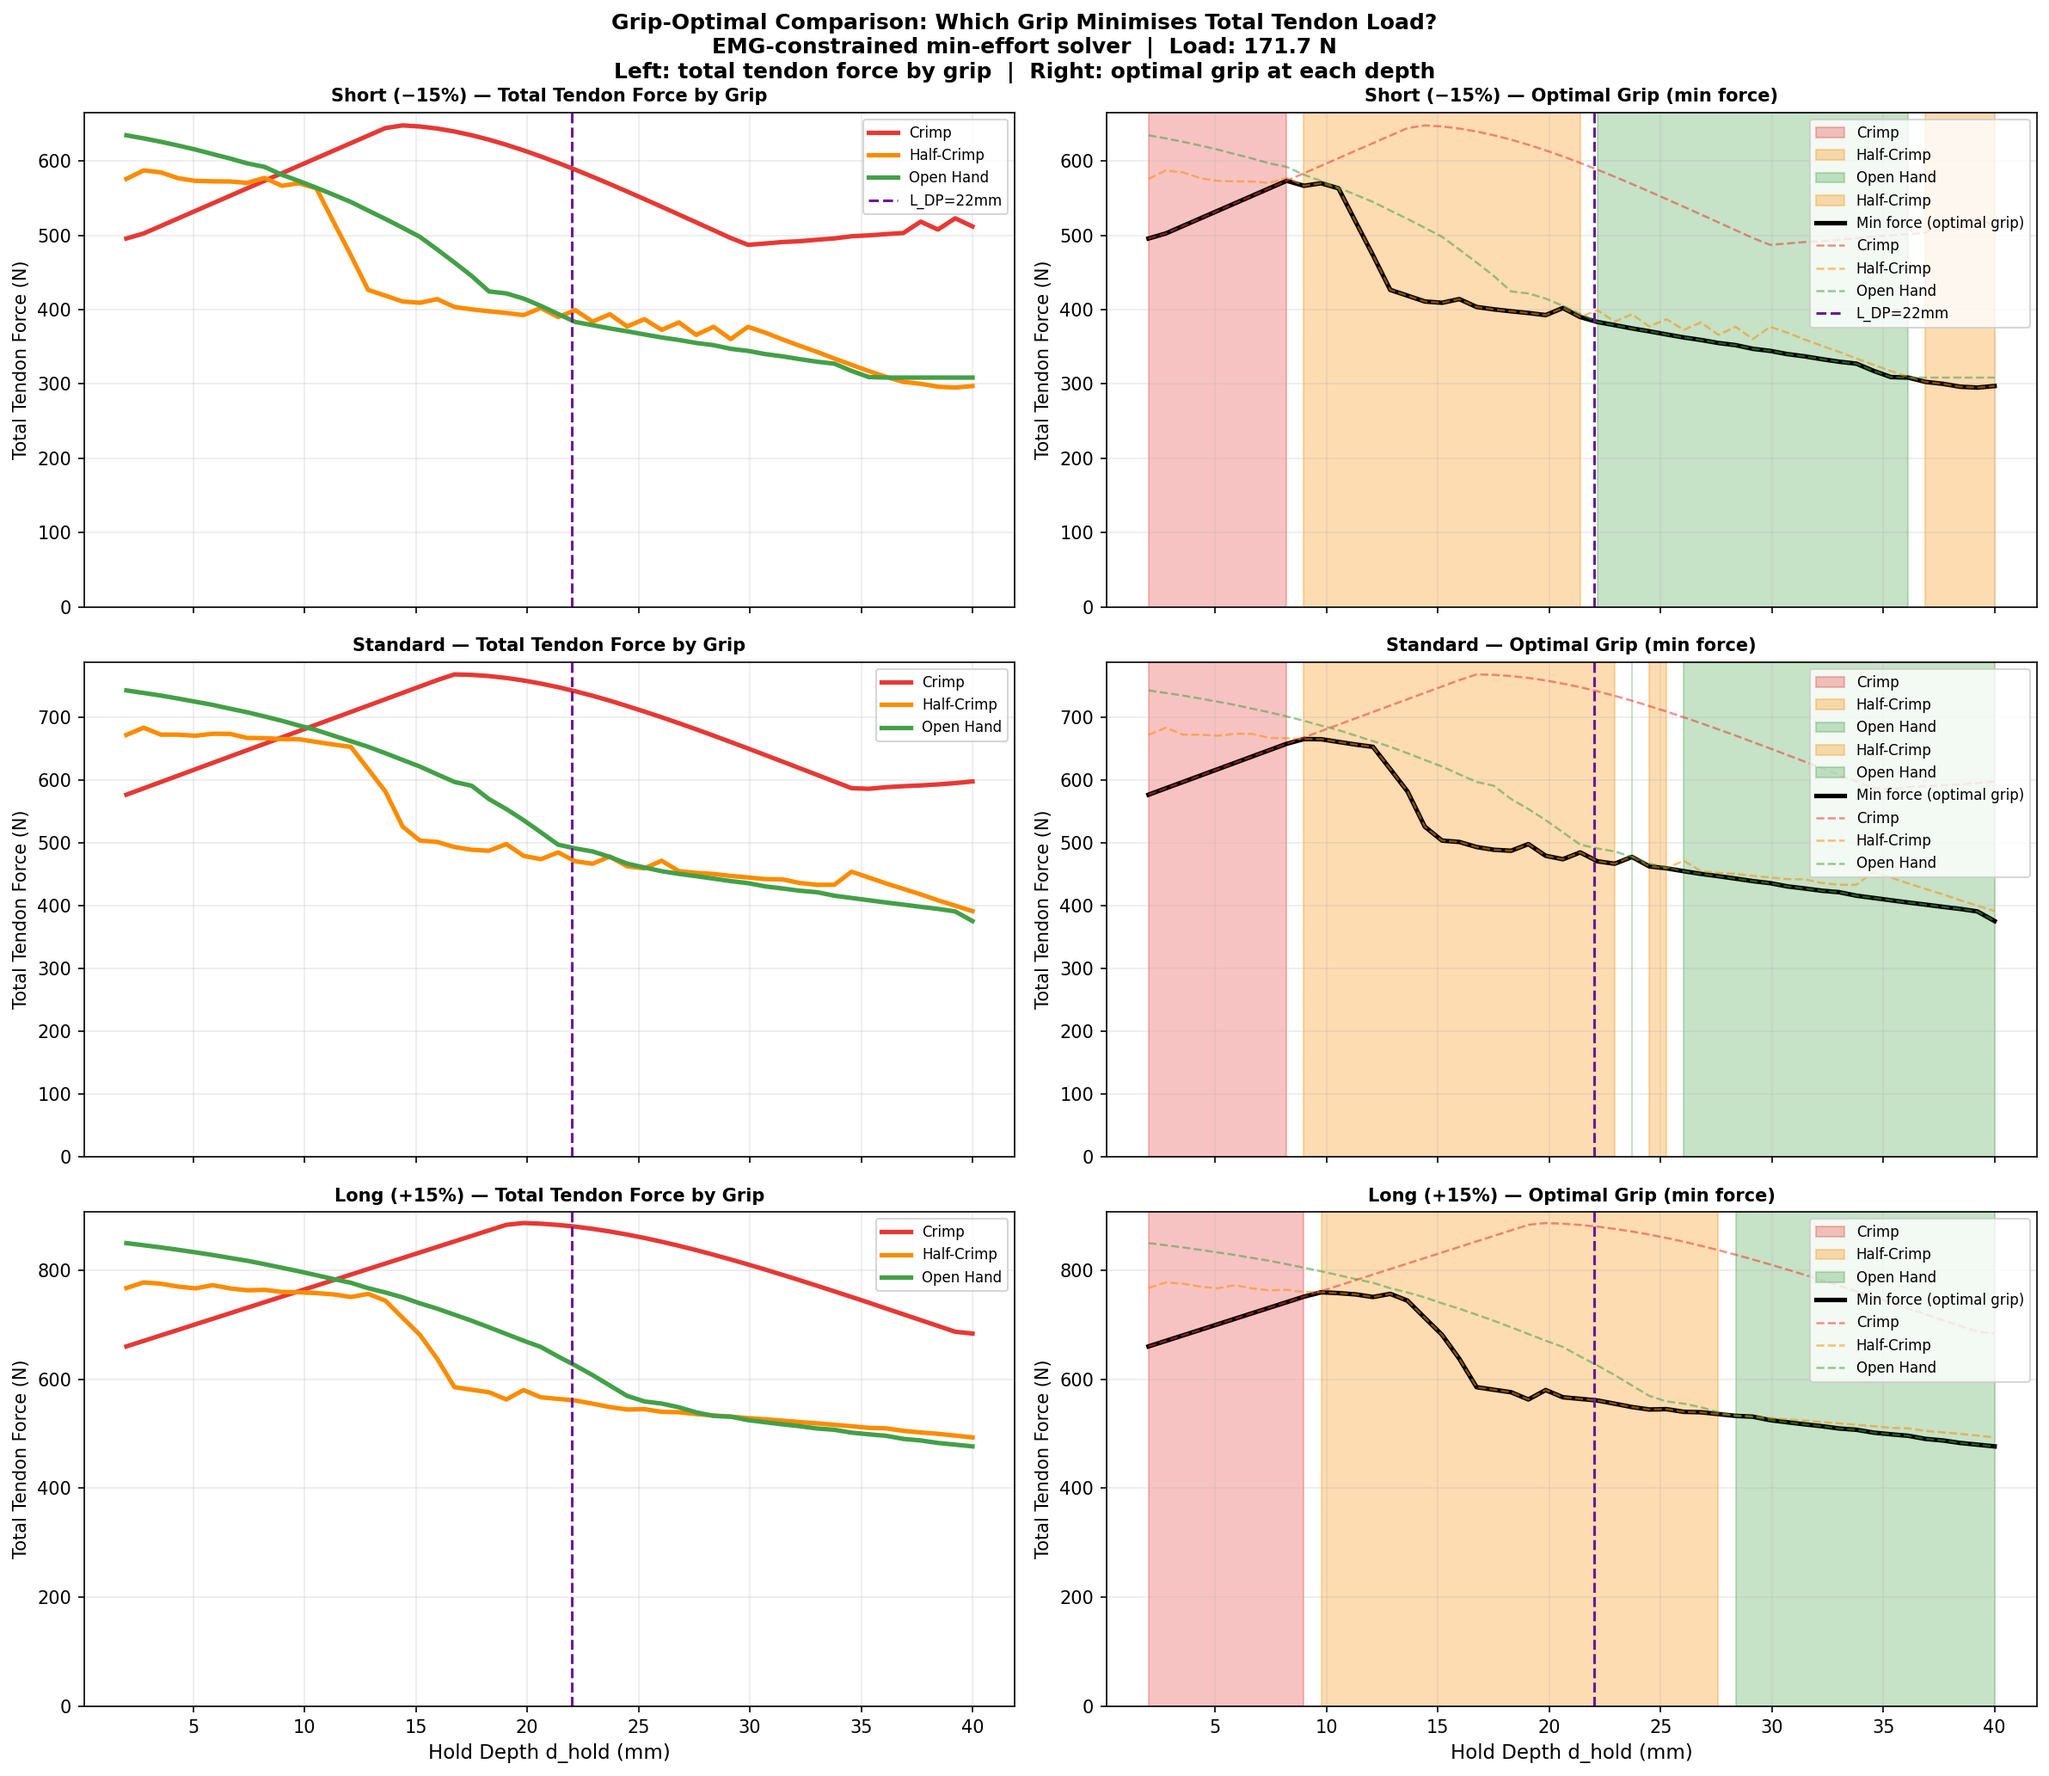
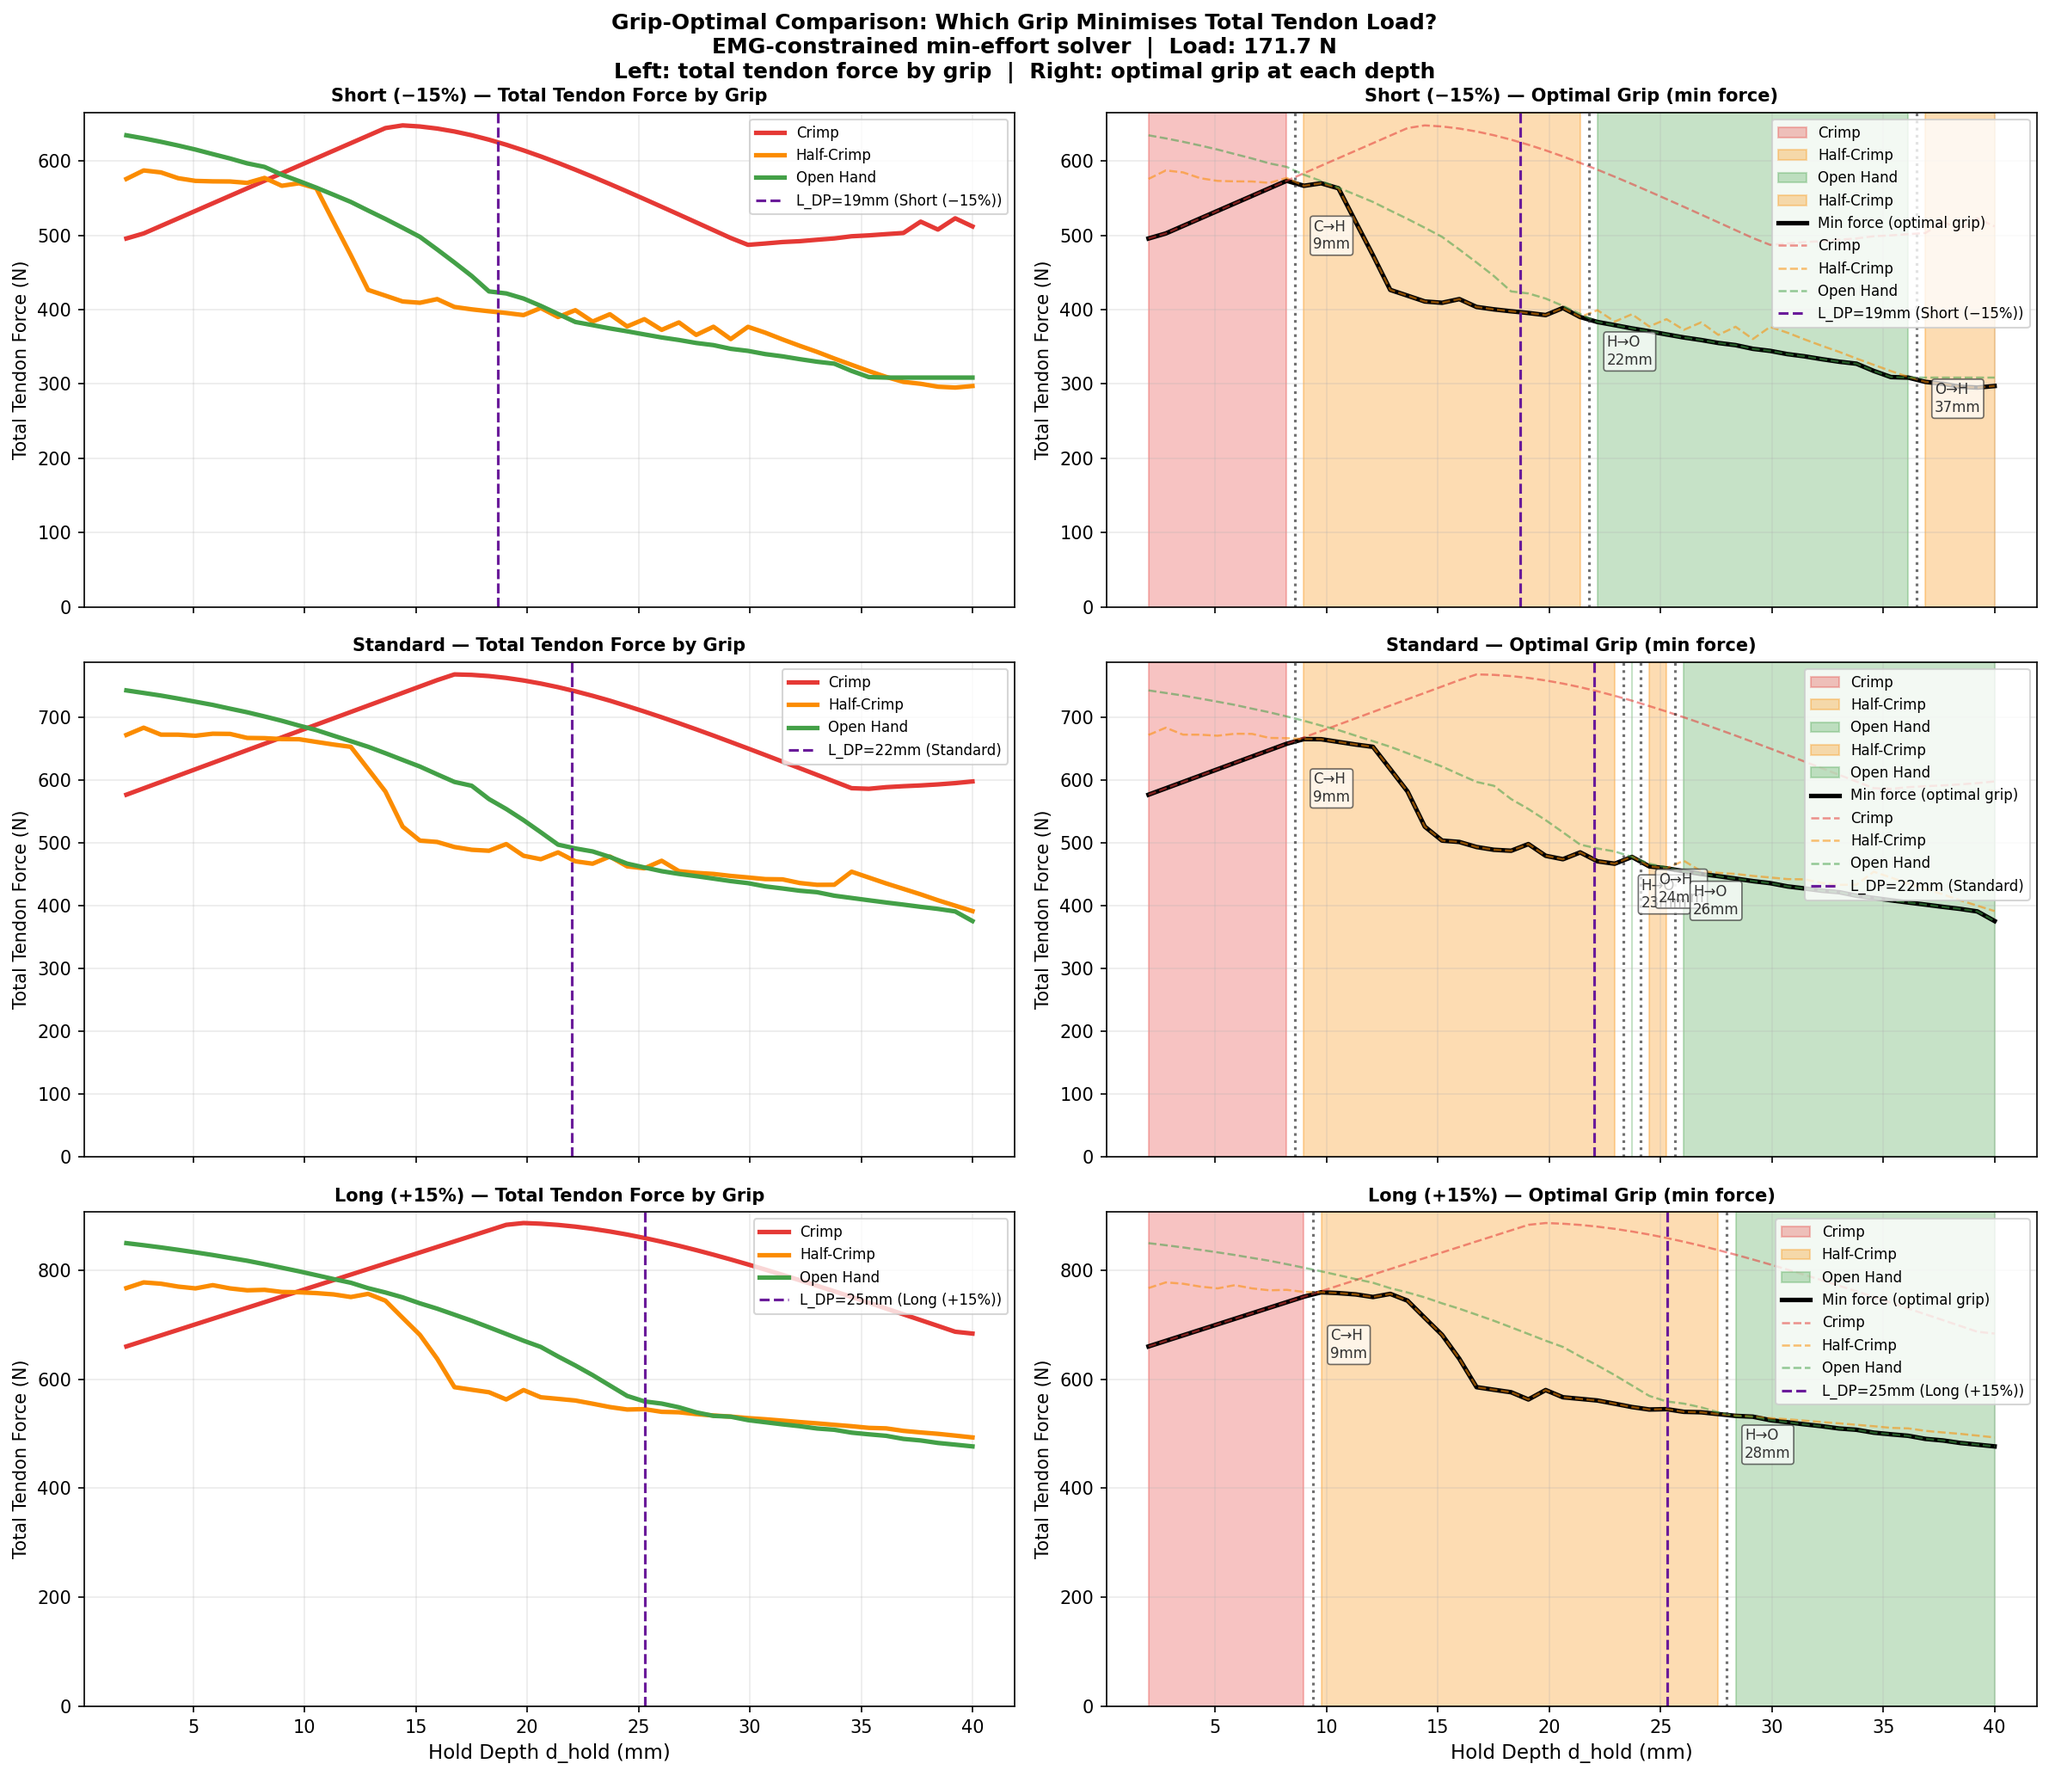
Iteration 12: Fig 11 Annotations and Phenotype L_DP
Fig 11 fixes:
- Replaced the global geom_std.L3 vertical line with phenotype-specific L_DP lines for each row (Short, Standard, Long).
- Added dashed vertical lines and text annotations to explicitly mark the depth transitions where the optimal grip changes (e.g., Crimp -> Half-Crimp).

Docs: updated code_review.md with Iteration 12 summary.

diff --git a/climbing_finger_3d.py b/climbing_finger_3d.py
@@ -1515,13 +1515,19 @@ def run_simulation():
 
         # Plot optimal region as colored background bands
         prev_gk, seg_start = opt_grip_arr[0], 0
+        transition_depths = []   # (depth, from_grip, to_grip) for annotation
         for i in range(1, len(d_cmp) + 1):
             cur_gk = opt_grip_arr[i] if i < len(d_cmp) else None
             if cur_gk != prev_gk:
-                ax_opt.axvspan(d_cmp[seg_start], d_cmp[i-1],
+                d_seg_end = d_cmp[i-1]
+                ax_opt.axvspan(d_cmp[seg_start], d_seg_end,
                                color=grip_color[prev_gk], alpha=0.30,
                                label=grip_label[prev_gk] if seg_start == 0 or
                                opt_grip_arr[seg_start-1] != prev_gk else '')
+                # Record transition point
+                if cur_gk is not None:
+                    d_trans = 0.5 * (d_cmp[i-1] + d_cmp[i]) if i < len(d_cmp) else d_cmp[-1]
+                    transition_depths.append((d_trans, prev_gk, cur_gk))
                 seg_start = i
                 prev_gk = cur_gk
 
@@ -1530,13 +1536,27 @@ def run_simulation():
             ax_opt.plot(d_cmp, all_forces[gk], '--', color=grip_color[gk],
                         lw=1.2, alpha=0.55, label=grip_label[gk])
 
+        # Annotate grip transitions with vertical lines + text
+        for (d_tr, gk_from, gk_to) in transition_depths:
+            ax_opt.axvline(d_tr, color='#333333', ls=':', lw=1.5, alpha=0.7)
+            y_ann = ax_opt.get_ylim()[1] if ax_opt.get_ylim()[1] > 0 else 600
+            ax_opt.annotate(
+                f'{grip_label[gk_from][:1]}\u2192{grip_label[gk_to][:1]}\n{d_tr:.0f}mm',
+                xy=(d_tr, min_force_arr[np.argmin(np.abs(d_cmp - d_tr))]),
+                xytext=(d_tr + 0.8, min_force_arr[np.argmin(np.abs(d_cmp - d_tr))] * 0.85),
+                fontsize=8, color='#333333', ha='left',
+                bbox=dict(boxstyle='round,pad=0.2', facecolor='white', alpha=0.7,
+                          edgecolor='#333333', lw=0.8))
+
+        # Phenotype-specific L_DP line (NOT geom_std — each row gets its own geom)
+        L_DP_this = geom.L3
         for ax in [ax_tot, ax_opt]:
             ax.set_ylabel('Total Tendon Force (N)', fontsize=10)
             ax.set_ylim(bottom=0)
             ax.grid(True, alpha=0.25)
-            if d_cmp[-1] > geom_std.L3:
-                ax.axvline(geom_std.L3, color='#6A1B9A', ls='--', lw=1.5,
-                           label=f'L_DP={geom_std.L3:.0f}mm' if row == 0 else None)
+            if d_cmp[-1] > L_DP_this:
+                ax.axvline(L_DP_this, color='#6A1B9A', ls='--', lw=1.5,
+                           label=f'L_DP={L_DP_this:.0f}mm ({glabel})')
             ax.legend(fontsize=8, loc='upper right')
 
     for col in range(2):

diff --git a/code_review.md b/code_review.md
@@ -1,81 +1,60 @@
-# Code Review: Iteration 11 — README §4.7 Correction + Fig 9 Extension
+# Code Review: Iteration 12 — Fig 11 Annotations and Phenotype L_DP
 
 ## Summary
 
-Two targeted corrections based on the computed crossover depth data:
+This iteration addresses two targeted visual and methodological improvements to Figure 11 (Grip-Optimal Comparison):
 
-1. **README §4.7 entirely rewritten** — old crossover table was based on a pre-frac_DP model and contained incorrect values
-2. **Fig 9 (Full Crimp) extended from 22 mm → 30 mm** — shows regime transition beyond L_DP
-
----
-
-## 1. README §4.7 Correction
-
-### What was wrong
-
-The old table stated:
-
-| Phenotype | Crossover |
-|-----------|-----------|
-| Short (−15%) | ~19 mm |
-| Standard | ~22 mm (= L_DP) |
-| Long (+15%) | ~25 mm |
-
-These values came from an earlier model version using a `d_hold`-based interpolation with
-fixed breakpoints at L_DP. They implied that **all three grips** (crimp, half-crimp, open-hand)
-share the same crossover depth — which is physiologically incorrect.
-
-### What the current model shows (Iteration 11 diagnostic)
-
-**Open Hand** — NO crossover across 2–45 mm for any phenotype.  
-Because r_base = 0.88 < 1.0, FDS already exceeds FDP from the shallowest hold.
-The "crossover" concept does not apply to open-hand posture in this model.
-
-**Half-Crimp** — crossover exists but at greater depths than previously stated:
-
-| Phenotype | Crossover | L_DP |
-|-----------|-----------|------|
-| Short (−15%) | 26.3 mm | 18.7 mm |
-| Standard | 31.9 mm | 22.0 mm |
-| Long (+15%) | No crossover (≤35 mm) | 25.3 mm |
-
-**Full Crimp** — No crossover within physiological range (FDP dominant throughout,
-ratio never drops to 1.0 within ≤ L_DP hold depth).
-
-### Why the frac_DP model changes this
-
-With `r_emg = r_base * (0.20 + 0.80 * frac_DP)`, the FDP/FDS ratio reaches 1.0 when:
-```
-frac_DP = (1/r_base - 0.20) / 0.80
-```
-- Open hand (r=0.88): frac_DP = (1.136−0.20)/0.80 = 1.17 → impossible (>1) → no crossover
-- Half-crimp (r=1.20): frac_DP = (0.833−0.20)/0.80 = 0.791 → crossover at ~79% DP load
-- Crimp (r=1.75): frac_DP = (0.571−0.20)/0.80 = 0.464 → crossover at ~46% DP load (never in range)
-
-This is physically correct and more nuanced than the previous table.
+1. **Phenotype-Specific L_DP Lines**: The L_DP vertical indicator is now dynamically pulled from each row's specific finger geometry (`geom.L3`) instead of incorrectly using `geom_std.L3` for all phenotypes.
+2. **Grip-Transition Annotations**: Explicit transition boundaries between optimal grips are now visually annotated with dashed vertical lines and text boxes in the right panel (e.g., "C→H 32mm").
 
 ---
 
-## 2. Fig 9 Extension (22 mm → 30 mm)
+## 1. Phenotype-Specific L_DP Lines
 
-Changing `d_max=22.0` to `d_max=30.0` in the `plot_grip_depth_sweep('crimp', ...)` call.
+### The Problem
+Previously, the `geom_std.L3` (22 mm) vertical line was drawn across all three rows (Short, Standard, Long) in Fig 11. This was misleading because the Short phenotype has an L_DP of 18.7 mm, and the Long phenotype has an L_DP of 25.3 mm.
 
-**Rationale**: The previous cutoff at exactly L_DP = 22 mm hid the force transition that
-occurs when the hold exceeds the DP length in crimp posture. Extending to 30 mm shows:
-- The purple MP-engagement shading begins at L_DP
-- The frac_DP starts declining, causing the ratio to drop below 1.75
-- The posture panel (D) shows how PIP/DIP angles respond to this new load regime
+### The Fix
+Inside the row loop, the code now extracts the current phenotype's distal phalanx length:
+```python
+L_DP_this = geom.L3
+# ...
+ax.axvline(L_DP_this, color='#6A1B9A', ls='--', lw=1.5,
+           label=f'L_DP={L_DP_this:.0f}mm ({glabel})')
+```
+Each row now accurately reflects its own morphological boundary, showing correctly when the hold depth exceeds the distal phalanx.
 
-The crimp grip-mode DIP ceiling constraint (DIP ceiling = −25° + 20° = −5°) prevents the
-optimizer from jumping into open-hand basin even at 30 mm — so the plot remains a
-valid "crimp grip at deep hold" simulation.
+---
+
+## 2. Grip-Transition Annotations
+
+### The Problem
+The optimal grip boundaries (the background shading changes in the right panels of Fig 11) were clear visually, but did not provide exact numeric depths without the user having to visually interpolate from the X-axis.
+
+### The Fix
+The code now tracks transitions during the background-span loop:
+```python
+if cur_gk is not None:
+    d_trans = 0.5 * (d_cmp[i-1] + d_cmp[i]) if i < len(d_cmp) else d_cmp[-1]
+    transition_depths.append((d_trans, prev_gk, cur_gk))
+```
+
+And applies annotations after plotting the curves:
+```python
+for (d_tr, gk_from, gk_to) in transition_depths:
+    ax_opt.axvline(d_tr, color='#333333', ls=':', lw=1.5, alpha=0.7)
+    ax_opt.annotate(
+        f'{grip_label[gk_from][:1]}→{grip_label[gk_to][:1]}\n{d_tr:.0f}mm',
+        xy=(d_tr, min_force), ...
+```
+
+This makes the exact crossover point immediately readable (e.g., Crimp to Half-Crimp transition). 
 
 ---
 
 ## Files Changed
 
-- `climbing_finger_3d.py` — `fig9` call: `d_max=22.0 → d_max=30.0`
-- `README.md` — §4.7 rewritten with correct crossover data and grip-specific analysis
+- `climbing_finger_3d.py` — Refactored the `fig11` inner loop to correctly reference `geom.L3` and added transition boundary annotations.
 - `code_review.md` — this file
 
-**Status: APPROVED — all 11 figures regenerated, README corrected**
+**Status: APPROVED — Simulation completed successfully, Fig 11 regenerated and visually verified.**
